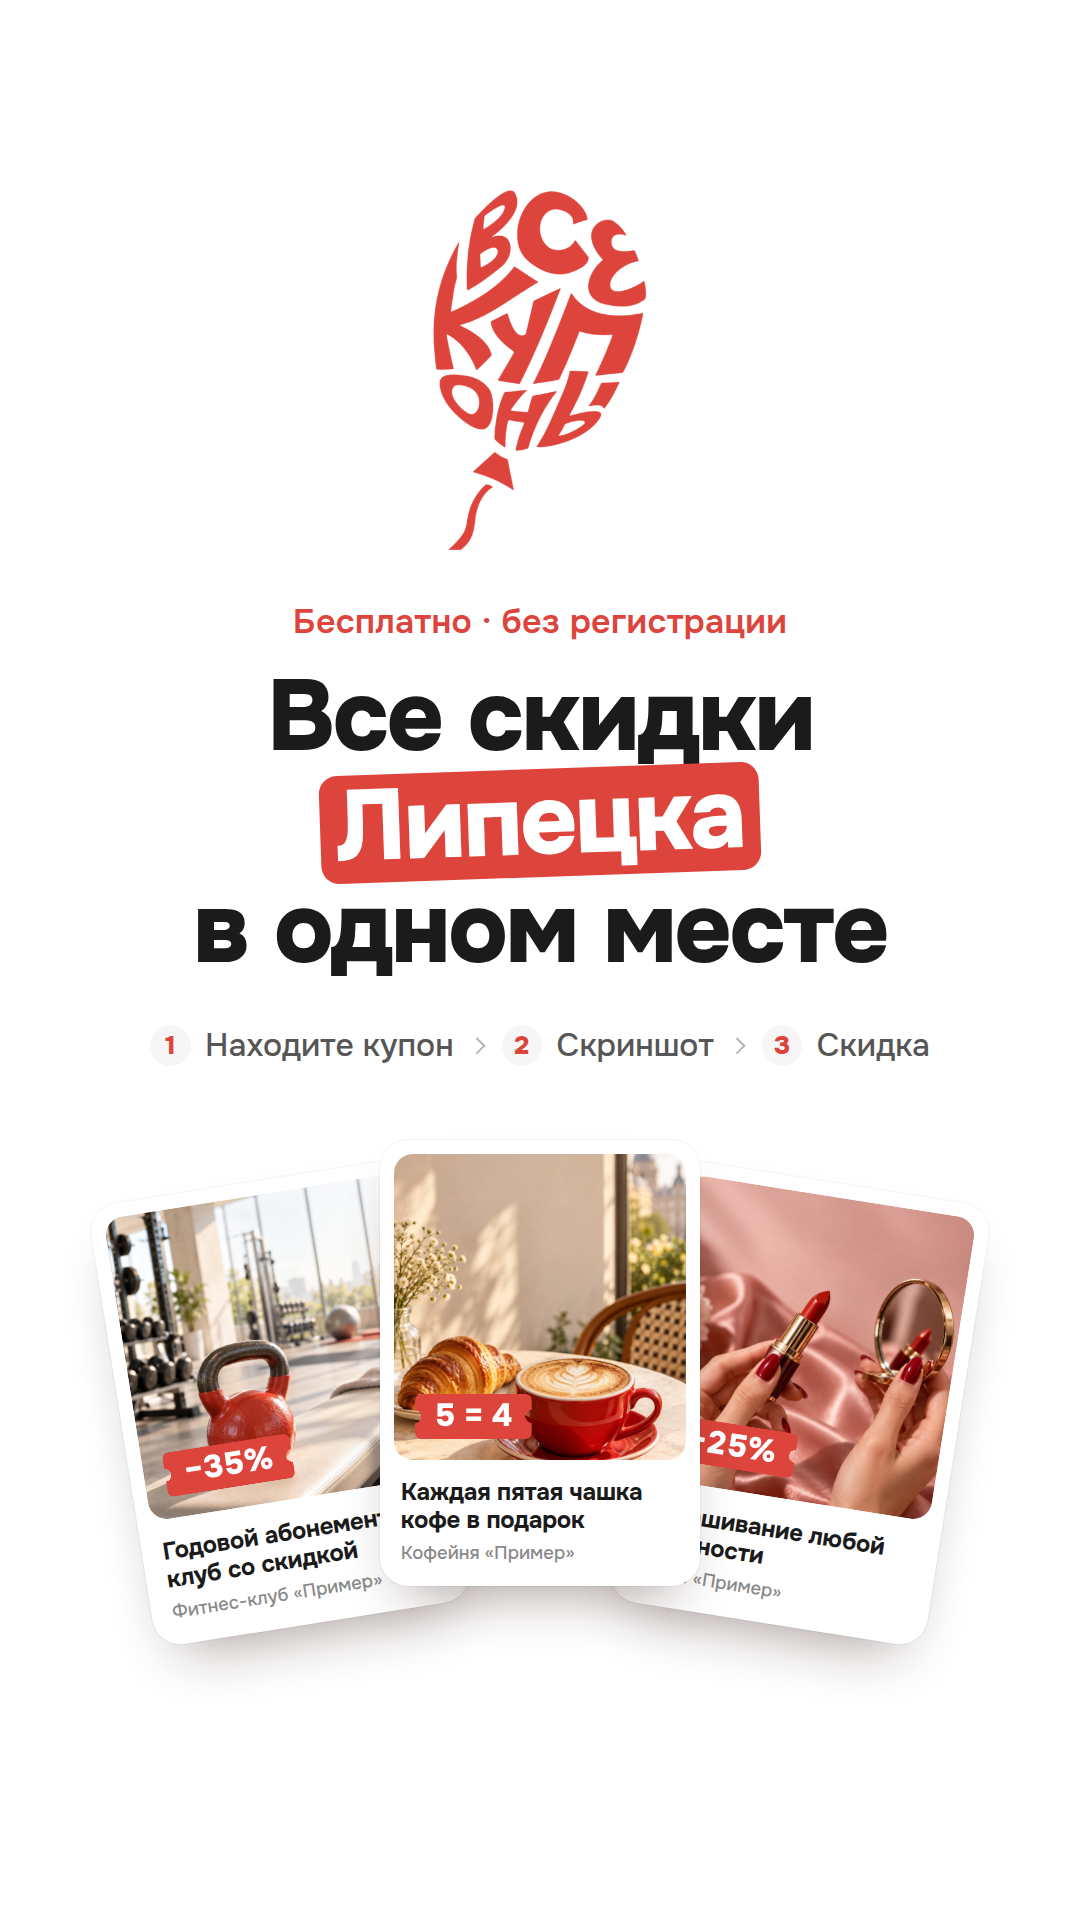
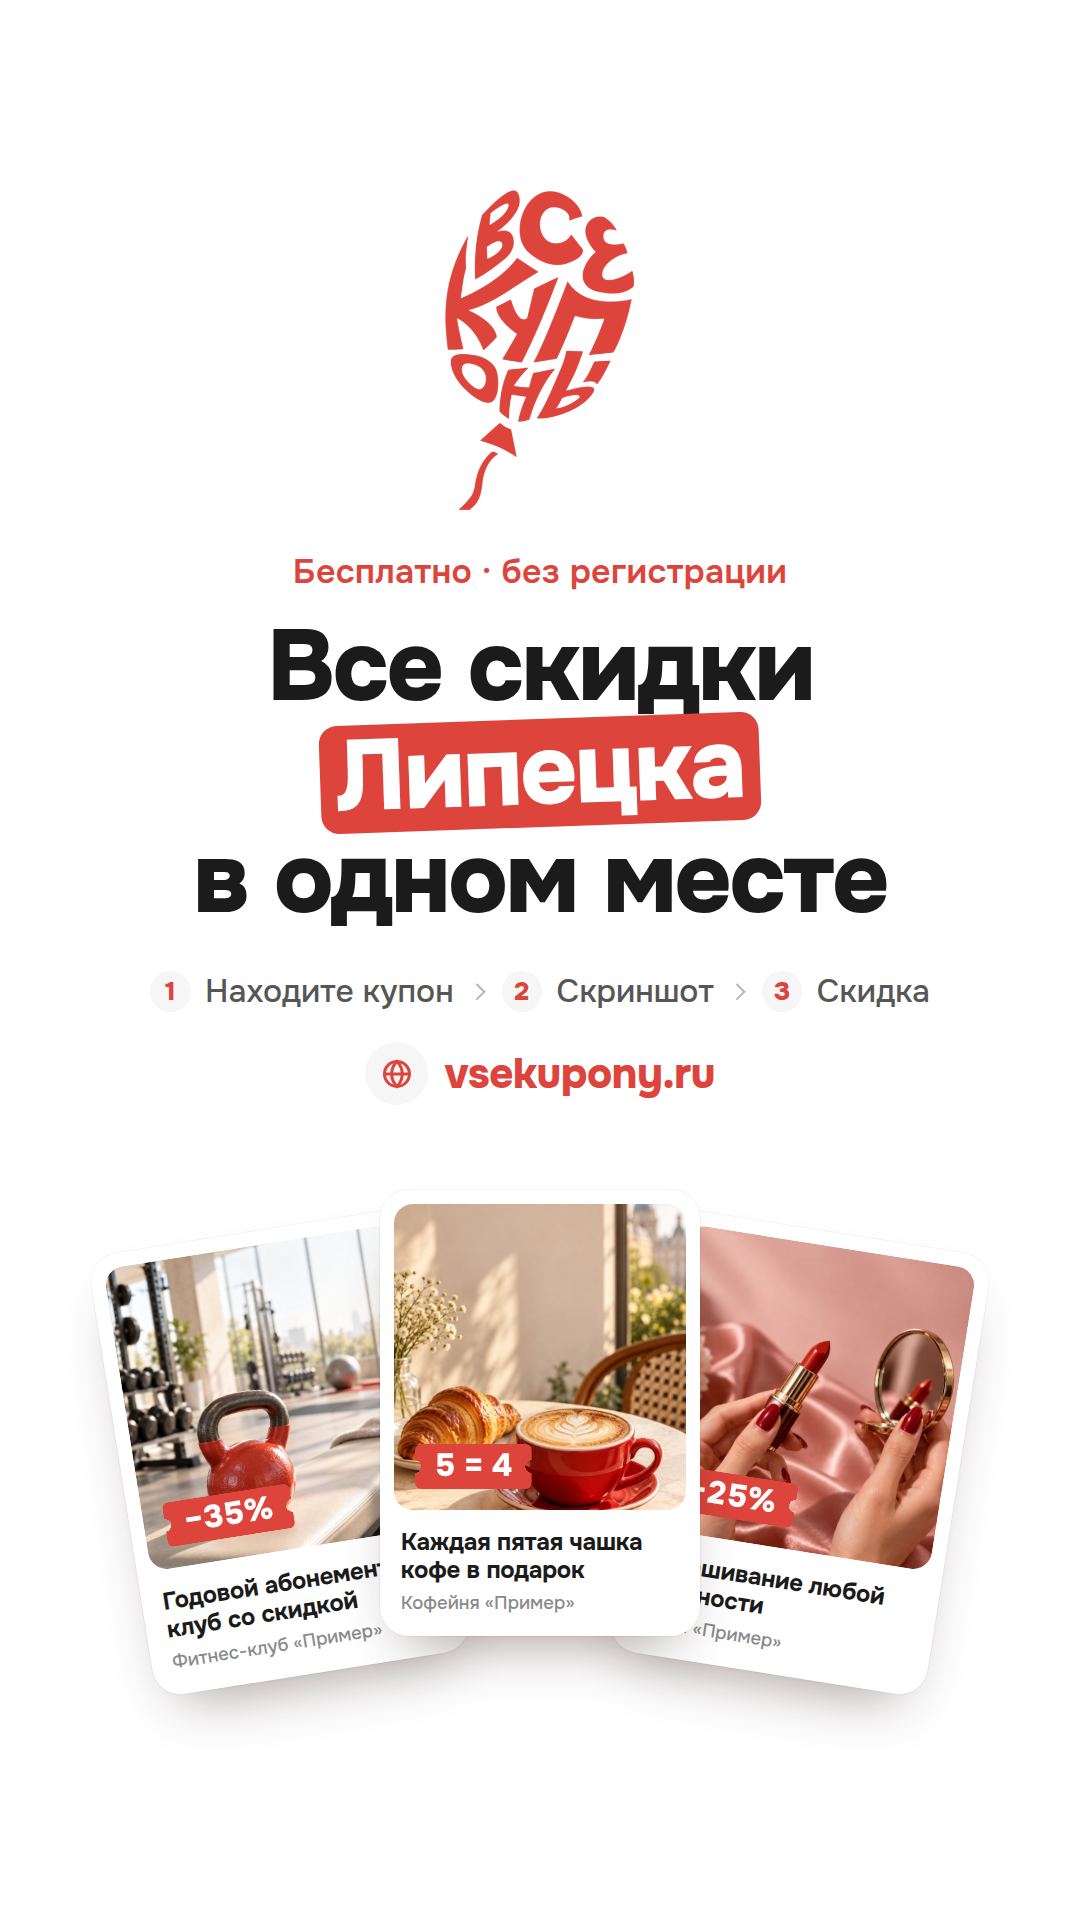
Обложки ВК и ОК: адрес сайта под шагами, красный, со значком
Claude-Session: https://claude.ai/code/session_01WnNNihAkFyEG8CvwvMrpgQ

Changed region(s): [[0.0917, 0.2812, 0.9167, 0.9062], [0.3972, 0.0938, 0.6111, 0.2812]]

diff --git a/social-kit/kit.css b/social-kit/kit.css
@@ -104,6 +104,12 @@ body{
   font-size:.82em;font-weight:800;
 }
 
+/* Адрес сайта на обложках: красный, жирный, со значком в кружке, как
+   у шагов. Не кнопка — обложку не нажать. */
+.site{display:inline-flex;align-items:center;gap:.4em;color:var(--brand);font-weight:800;letter-spacing:-.01em}
+.site__ic{width:1.5em;height:1.5em;border-radius:50%;display:grid;place-items:center;background:var(--surface);flex:none}
+.site__ic svg{width:.95em;height:.95em}
+
 /* Билетик выгоды: красная плашка с полукруглыми вырезами по бокам.
    Вырезы — маской, поэтому под ними виден снимок. Радиус выреза --n
    задаётся в px там, где задан кегль: em в маске Chromium считает от
@@ -156,6 +162,7 @@ body{
 .vk-cover .eyebrow{font-size:28px}
 .vk-cover .h1{margin-top:18px;font-size:88px}
 .vk-cover .steps{margin-top:34px;font-size:24px}
+.vk-cover .site{margin-top:26px;font-size:34px}
 .vk-cover .art-r{position:absolute;left:1400px;top:0;width:330px;height:768px}
 .vk-cover .card--1{--w:215px;--r:-7deg;left:0;top:200px}
 .vk-cover .card--2{--w:215px;--r:7deg;left:100px;top:290px}
@@ -166,14 +173,15 @@ body{
    Сверху ~200 px — статус-бар и кнопки, снизу ~420 px перекрывает блок
    с названием сообщества и кнопками. Смысл — между ними. */
 .vk-mob{width:1080px;height:1920px}
-.vk-mob .logo{position:absolute;left:50%;top:190px;height:360px;transform:translateX(-50%)}
-.vk-mob .txt{position:absolute;left:0;right:0;top:600px;text-align:center}
+.vk-mob .logo{position:absolute;left:50%;top:190px;height:320px;transform:translateX(-50%)}
+.vk-mob .txt{position:absolute;left:0;right:0;top:550px;text-align:center}
 .vk-mob .eyebrow{font-size:34px}
 .vk-mob .h1{margin-top:22px;font-size:100px}
-.vk-mob .steps{justify-content:center;margin-top:44px;font-size:32px}
-.vk-mob .card--1{--w:320px;--r:-9deg;left:120px;top:1180px}
-.vk-mob .card--2{--w:320px;--r:0deg;left:380px;top:1140px;z-index:2}
-.vk-mob .card--3{--w:320px;--r:9deg;left:640px;top:1180px}
+.vk-mob .steps{justify-content:center;margin-top:40px;font-size:32px}
+.vk-mob .site{margin-top:30px;font-size:42px}
+.vk-mob .card--1{--w:320px;--r:-9deg;left:120px;top:1230px}
+.vk-mob .card--2{--w:320px;--r:0deg;left:380px;top:1190px;z-index:2}
+.vk-mob .card--3{--w:320px;--r:9deg;left:640px;top:1230px}
 /* Низ под блоком сообщества — серая подложка, чтобы карточки не
    упирались в белые кнопки ВК */
 .vk-mob .floor{display:none}
@@ -189,7 +197,8 @@ body{
 .ok-cover .txt{position:absolute;left:590px;top:50%;transform:translateY(-50%);text-align:left}
 .ok-cover .eyebrow{font-size:28px}
 .ok-cover .h1{margin-top:18px;font-size:76px}
-.ok-cover .steps{margin-top:36px;font-size:25px}
+.ok-cover .steps{margin-top:30px;font-size:25px}
+.ok-cover .site{margin-top:22px;font-size:32px}
 /* Логотип на 15 % меньше и по центру высоты, как и текст (правка 03.10) */
 .ok-cover .logo{position:absolute;left:172px;top:50%;height:408px;transform:translateY(-50%)}
 .ok-cover .card--1{--w:230px;--r:-7deg;left:1490px;top:110px}

diff --git a/social-kit/index.html b/social-kit/index.html
@@ -33,6 +33,7 @@
             <div class="eyebrow">Бесплатно · без регистрации</div>
             <h1 class="h1">Все скидки <span class="city" data-city>Липецка</span><br>в одном месте</h1>
             <ol class="steps"><li><b>1</b>Находите купон</li><li><b>2</b>Делаете скриншот</li><li><b>3</b>Платите со скидкой</li></ol>
+            <div class="site"><span class="site__ic"><svg viewBox="0 0 24 24" fill="none" stroke="currentColor" stroke-width="1.8" stroke-linecap="round"><circle cx="12" cy="12" r="7.5"/><path d="M4.5 12h15M12 4.5c2.1 2.1 3.2 4.6 3.2 7.5s-1.1 5.4-3.2 7.5c-2.1-2.1-3.2-4.6-3.2-7.5s1.1-5.4 3.2-7.5Z"/></svg></span>vsekupony.ru</div>
           </div>
           <div class="art-r">
             <div class="card card--1" data-card="coffee"></div>
@@ -49,6 +50,7 @@
             <div class="eyebrow">Бесплатно · без регистрации</div>
             <h1 class="h1">Все скидки<br><span class="city" data-city>Липецка</span><br>в одном месте</h1>
             <ol class="steps"><li><b>1</b>Находите купон</li><li><b>2</b>Скриншот</li><li><b>3</b>Скидка</li></ol>
+            <div class="site"><span class="site__ic"><svg viewBox="0 0 24 24" fill="none" stroke="currentColor" stroke-width="1.8" stroke-linecap="round"><circle cx="12" cy="12" r="7.5"/><path d="M4.5 12h15M12 4.5c2.1 2.1 3.2 4.6 3.2 7.5s-1.1 5.4-3.2 7.5c-2.1-2.1-3.2-4.6-3.2-7.5s1.1-5.4 3.2-7.5Z"/></svg></span>vsekupony.ru</div>
           </div>
           <div class="card card--1" data-card="fitness"></div>
           <div class="card card--2" data-card="coffee"></div>
@@ -87,6 +89,7 @@
             <div class="eyebrow">Бесплатно · без регистрации</div>
             <h1 class="h1">Все скидки <span class="city" data-city>Липецка</span><br>в одном месте</h1>
             <ol class="steps"><li><b>1</b>Находите купон</li><li><b>2</b>Делаете скриншот</li><li><b>3</b>Платите со скидкой</li></ol>
+            <div class="site"><span class="site__ic"><svg viewBox="0 0 24 24" fill="none" stroke="currentColor" stroke-width="1.8" stroke-linecap="round"><circle cx="12" cy="12" r="7.5"/><path d="M4.5 12h15M12 4.5c2.1 2.1 3.2 4.6 3.2 7.5s-1.1 5.4-3.2 7.5c-2.1-2.1-3.2-4.6-3.2-7.5s1.1-5.4 3.2-7.5Z"/></svg></span>vsekupony.ru</div>
           </div>
           <div class="card card--1" data-card="eda"></div>
           <div class="card card--2" data-card="fitness"></div>
